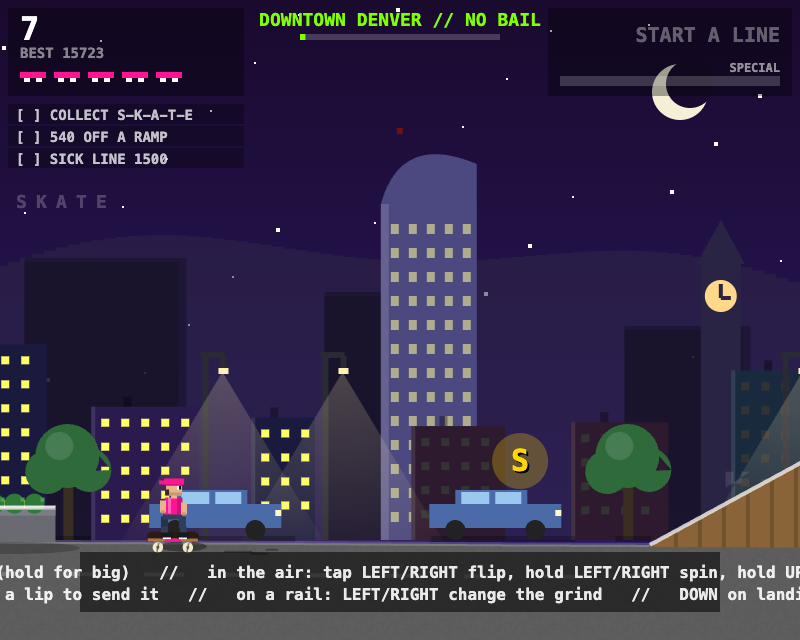
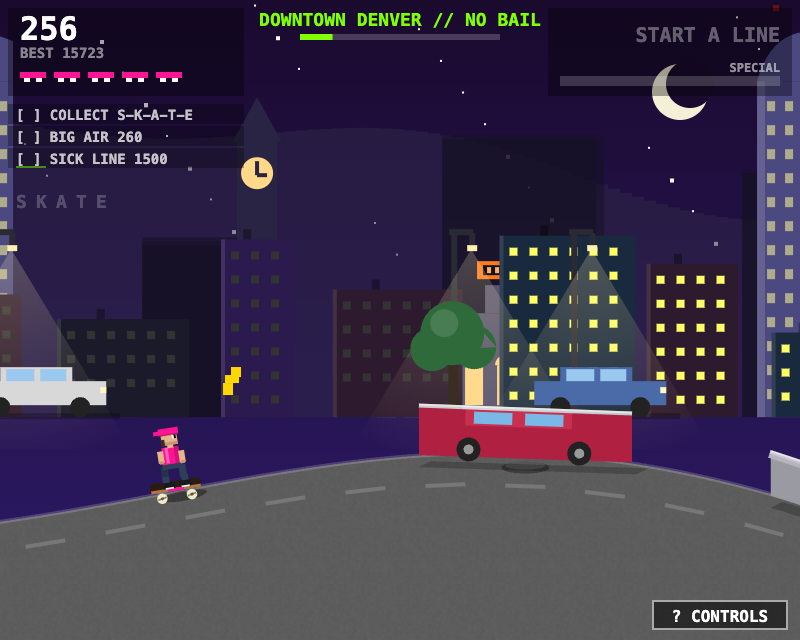
Ink or Die: the camera keeps the skater on screen through big air and after it; intro sheet fits
The lift lagged the pop and the return was capped at a third of a pixel a
frame, so the skater left the top of the frame on big air and sat under the
bottom edge for seconds after. Hard clamps top and bottom, and a fast return
on the ground. The intro sheet is four short pages instead of two overflowing
lines. Floor screen recaptured.

Claude-Session: https://claude.ai/code/session_01VHgdi5hs8Xx1NP8EyBhCrw

diff --git a/legacy/games/skate.js b/legacy/games/skate.js
@@ -1440,6 +1440,17 @@
     var airLift = 0;
     if (!player.onGround && !player.grinding && player.y - camY < 100) airLift = (player.y - camY - 100) * 0.2;
     camY += camStep + airLift;
+    // Whatever the easing says, the skater never leaves the frame: hard-clamp
+    // so the top of the air is always on screen (the lag used to lose them).
+    if (player.y - camY < 48) camY = player.y - 48;
+    // And after the air the view comes back down fast enough to keep up: on
+    // the ground, anything past the deadzone closes at 15 percent a frame,
+    // and the skater is never lower than 70px from the bottom.
+    if (player.onGround || player.grinding) {
+      var over = (player.y - camY) - (GROUND_Y + 30);
+      if (over > 0) camY += over * 0.15;
+    }
+    if (player.y - camY > H - 70) camY = player.y - (H - 70);
     camMoved = Math.abs(camStep + airLift);
 
     // Particles + popups (world y)
@@ -1654,12 +1665,15 @@
     ctx.textAlign = 'center';
     // The whole sheet cycles: the cabinet shows a few lines at a time.
     var sheet = [
-      ['SPACE ollies, hold it for big // hold UP at a lip and the board sends itself', 'in the air: tap LEFT or RIGHT to flip, hold to spin, hold UP or DOWN to grab // rails: LEFT and RIGHT change the grind'],
-      ['TRICK BOOK // tap RIGHT kickflip, LEFT heelflip // RIGHT RIGHT 360 flip, LEFT LEFT laser flip, UP UP double kickflip', 'RIGHT LEFT varial kick, LEFT RIGHT varial heel // DOWN RIGHT hardflip, DOWN LEFT inward heel // UP RIGHT impossible, UP LEFT nollie heel, DOWN DOWN pop shove-it'],
+      ['SPACE ollies, hold it for big air', 'hold UP at a lip and the board sends itself', 'hold SPACE in the air: slow backflip'],
+      ['in the air: tap LEFT or RIGHT to flip', 'hold LEFT or RIGHT to spin, hold UP or DOWN to grab', 'on a rail: LEFT and RIGHT change the grind'],
+      ['TRICK BOOK: RIGHT RIGHT 360 flip, LEFT LEFT laser', 'RIGHT LEFT varial kick, DOWN RIGHT hardflip', 'UP RIGHT impossible, UP UP double kickflip'],
+      ['DOWN LEFT inward heel, UP LEFT nollie heel', 'DOWN DOWN pop shove-it, LEFT RIGHT varial heel', 'the ? CONTROLS button in a run shows it all'],
     ];
     var pageI = Math.floor(t / 150) % sheet.length;
-    ctx.fillText(sheet[pageI][0], W / 2, H - 58);
-    ctx.fillText(sheet[pageI][1], W / 2, H - 44);
+    ctx.fillText(sheet[pageI][0], W / 2, H - 64);
+    ctx.fillText(sheet[pageI][1], W / 2, H - 52);
+    ctx.fillText(sheet[pageI][2], W / 2, H - 40);
     ctx.fillStyle = 'rgba(255,255,255,0.35)';
     for (var pgi = 0; pgi < sheet.length; pgi++) ctx.fillRect(W / 2 - sheet.length * 5 + pgi * 10, H - 32, 6, 2);
 
